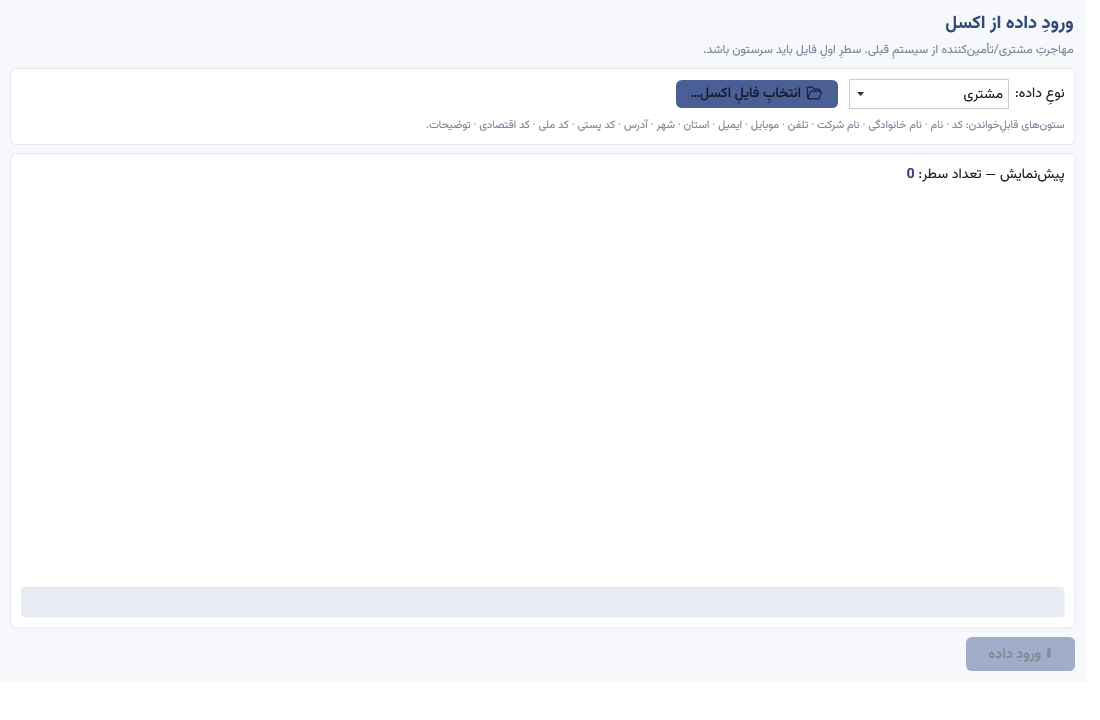
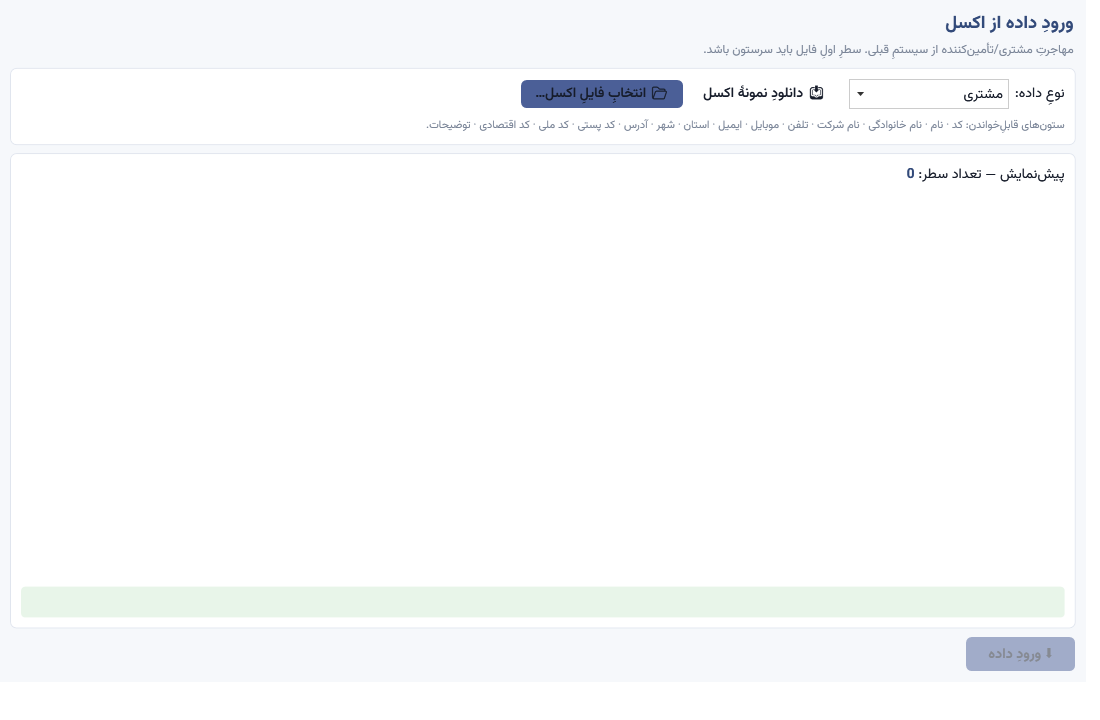
feat(import): POLISH-1 — دکمهٔ «دانلودِ نمونهٔ اکسل» + رنگیِ نتیجه
صفحهٔ ورودِ داده: DownloadTemplateCommand یک xlsxِ نمونه با سرستون + ردیفِ مثالِ هر
نوع (مشتری/تأمینکننده/کالا) میسازد و باز میکند → مهاجرت self-service شد.
کادرِ نتیجه با DataTrigger رنگی شد (سبزِ موفق/قرمزِ خطا). build سبز، ۳۵۱ تست.

Changed region(s): [[0.4636, 0.0917, 0.7727, 0.1528]]

diff --git a/src/SamaHesab.WPF/Views/Settings/DataImportView.xaml b/src/SamaHesab.WPF/Views/Settings/DataImportView.xaml
@@ -25,8 +25,9 @@
                 <StackPanel Orientation="Horizontal">
                     <TextBlock Text="نوعِ داده:" VerticalAlignment="Center" Margin="0,0,6,0"/>
                     <ComboBox Width="160" Height="30" ItemsSource="{Binding EntityTypes}" SelectedItem="{Binding SelectedEntityType}"/>
-                    <Button Style="{StaticResource ErpBtnPrimary}" Height="30" Padding="14,0" Margin="10,0,0,0" Content="📂 انتخابِ فایلِ اکسل…" Click="Browse_Click"/>
-                    <TextBlock Text="{Binding FilePath}" VerticalAlignment="Center" Margin="10,0,0,0" Foreground="{StaticResource ErpTextMuted}" FontSize="11" TextTrimming="CharacterEllipsis" MaxWidth="380"/>
+                    <Button Style="{StaticResource ErpBtnGhost}" Height="30" Padding="12,0" Margin="10,0,0,0" Content="📥 دانلودِ نمونهٔ اکسل" Command="{Binding DownloadTemplateCommand}"/>
+                    <Button Style="{StaticResource ErpBtnPrimary}" Height="30" Padding="14,0" Margin="6,0,0,0" Content="📂 انتخابِ فایلِ اکسل…" Click="Browse_Click"/>
+                    <TextBlock Text="{Binding FilePath}" VerticalAlignment="Center" Margin="10,0,0,0" Foreground="{StaticResource ErpTextMuted}" FontSize="11" TextTrimming="CharacterEllipsis" MaxWidth="320"/>
                 </StackPanel>
                 <TextBlock Text="{Binding ColumnHelp}" TextWrapping="Wrap" FontSize="11" Foreground="{StaticResource ErpTextMuted}" Margin="0,8,0,0"/>
             </StackPanel>
@@ -43,7 +44,17 @@
                     <TextBox Text="{Binding PreviewText, Mode=OneWay}" IsReadOnly="True" BorderThickness="0" Background="Transparent"
                              FontFamily="Consolas" FontSize="11.5" FlowDirection="LeftToRight" TextWrapping="NoWrap"/>
                 </ScrollViewer>
-                <Border Grid.Row="2" Background="{StaticResource ErpGray150}" CornerRadius="4" Padding="8,6" Margin="0,8,0,0">
+                <Border Grid.Row="2" CornerRadius="4" Padding="8,6" Margin="0,8,0,0">
+                    <Border.Style>
+                        <Style TargetType="Border">
+                            <Setter Property="Background" Value="#E8F5E9"/><!-- موفق: سبزِ کمرنگ -->
+                            <Style.Triggers>
+                                <DataTrigger Binding="{Binding ResultIsError}" Value="True">
+                                    <Setter Property="Background" Value="#FDECEA"/><!-- خطا/هشدار: قرمزِ کمرنگ -->
+                                </DataTrigger>
+                            </Style.Triggers>
+                        </Style>
+                    </Border.Style>
                     <TextBlock Text="{Binding ResultText}" TextWrapping="Wrap" FontSize="12"/>
                 </Border>
             </Grid>

diff --git a/src/SamaHesab.WPF/ViewModels/Settings/DataImportViewModel.cs b/src/SamaHesab.WPF/ViewModels/Settings/DataImportViewModel.cs
@@ -17,6 +17,7 @@ namespace SamaHesab.WPF.ViewModels.Settings;
 public partial class DataImportViewModel : BaseViewModel
 {
     private readonly IExcelImportService _excel;
+    private readonly IExcelExportService _exporter;
     private readonly IMediator _mediator;
     private IReadOnlyList<IReadOnlyDictionary<string, string>> _rows = new List<IReadOnlyDictionary<string, string>>();
 
@@ -28,11 +29,45 @@ public partial class DataImportViewModel : BaseViewModel
     [ObservableProperty] private string _previewText = string.Empty;
     [ObservableProperty] private string _resultText = string.Empty;
     [ObservableProperty] private bool _canImport;
+    [ObservableProperty] private bool _resultIsError;   // POLISH-1: رنگِ نتیجه
 
-    public DataImportViewModel(IExcelImportService excel, IMediator mediator,
+    public DataImportViewModel(IExcelImportService excel, IExcelExportService exporter, IMediator mediator,
         IDialogService dialogService, INavigationService navigationService)
         : base(dialogService, navigationService)
-    { _excel = excel; _mediator = mediator; }
+    { _excel = excel; _exporter = exporter; _mediator = mediator; }
+
+    /// <summary>سرستونهای نمونهٔ هر نوع (همان نگاشتِ import).</summary>
+    private string[] TemplateHeaders => SelectedEntityType switch
+    {
+        "کالا" => new[] { "کد", "نام", "واحد", "قیمت فروش", "قیمت خرید", "قیمت عمده", "قیمت مصرفکننده", "مالیات", "بارکد" },
+        "تأمینکننده" => new[] { "کد", "نام", "نام خانوادگی", "نام شرکت", "تلفن", "موبایل", "ایمیل", "استان", "شهر", "آدرس" },
+        _ => new[] { "کد", "نام", "نام خانوادگی", "نام شرکت", "تلفن", "موبایل", "ایمیل", "استان", "شهر", "آدرس", "کد پستی", "کد ملی", "کد اقتصادی", "توضیحات" },
+    };
+
+    private object?[] TemplateSample => SelectedEntityType switch
+    {
+        "کالا" => new object?[] { "K1001", "خودکار آبی", "عدد", 25000, 18000, 22000, 25000, 9, "6261234567890" },
+        "تأمینکننده" => new object?[] { "S1001", "علی", "احمدی", "", "02112345678", "09120000000", "a@x.com", "تهران", "تهران", "خ ولیعصر" },
+        _ => new object?[] { "C1001", "رضا", "کریمی", "", "02112345678", "09120000000", "r@x.com", "تهران", "تهران", "خ آزادی", "1234567890", "", "0499370899", "" },
+    };
+
+    /// <summary>POLISH-1 — دانلودِ فایلِ نمونهٔ اکسل با سرستونهای درست + یک ردیفِ مثال.</summary>
+    [RelayCommand]
+    private async System.Threading.Tasks.Task DownloadTemplateAsync()
+    {
+        try
+        {
+            var bytes = _exporter.Export("نمونه", TemplateHeaders, new[] { (IReadOnlyList<object?>)TemplateSample });
+            var dir = System.IO.Path.Combine(
+                System.Environment.GetFolderPath(System.Environment.SpecialFolder.MyDocuments), "SamaHesab", "قالبها");
+            System.IO.Directory.CreateDirectory(dir);
+            var path = System.IO.Path.Combine(dir, $"نمونهٔ ورودِ {SelectedEntityType}.xlsx");
+            await System.IO.File.WriteAllBytesAsync(path, bytes);
+            System.Diagnostics.Process.Start(new System.Diagnostics.ProcessStartInfo(path) { UseShellExecute = true });
+            await _dialogService.ShowSuccessAsync($"فایلِ نمونه ساخته شد: {path}\nستونها را پر کنید و همین فایل را وارد کنید.");
+        }
+        catch (System.Exception ex) { await _dialogService.ShowErrorAsync("خطا در ساختِ نمونه: " + ex.Message); }
+    }
 
     public override System.Threading.Tasks.Task LoadAsync() => System.Threading.Tasks.Task.CompletedTask;
 
@@ -93,6 +128,7 @@ public partial class DataImportViewModel : BaseViewModel
             sb.AppendLine($"وارد شد: {res.Imported} · از قبل موجود: {res.Skipped} · ناموفق: {res.Failed}");
             foreach (var e in res.Errors) sb.AppendLine("• " + e);
             ResultText = sb.ToString();
+            ResultIsError = res.Failed > 0 || res.Errors.Count > 0;
             await _dialogService.ShowSuccessAsync($"ورودِ داده پایان یافت — {res.Imported} مورد وارد شد.");
         }, "در حال ورودِ داده...");
     }
